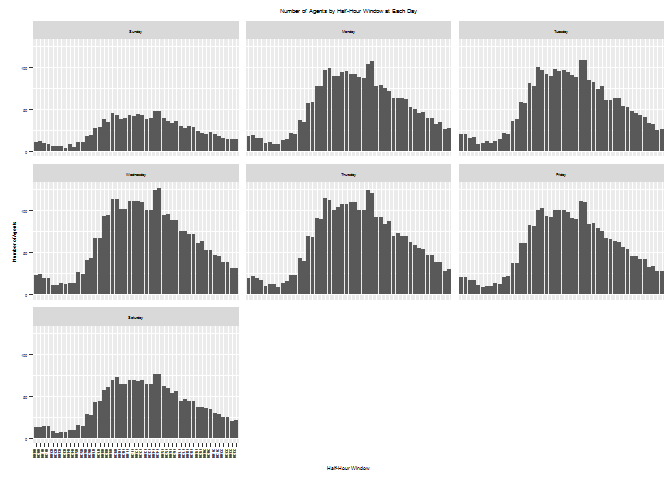
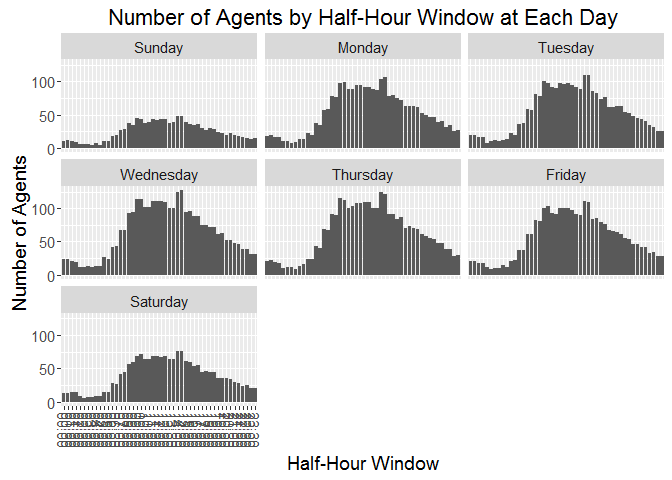
update README and vignette file

diff --git a/inst/doc/scheduler.html b/inst/doc/scheduler.html
@@ -587,9 +587,9 @@ knitr::<span class="kw">kable</span>(agent_requirement)</code></pre></div>
 </table>
 <p>The package associated also a visualization function for viewing the requirement:</p>
 <div class="sourceCode"><pre class="sourceCode r"><code class="sourceCode r"><span class="co">#- visualize the requirement</span>
-scheduler::<span class="kw">schedule_viewer1</span>(<span class="dt">m =</span> agent_requirement, <span class="dt">element_text_size =</span> 4L)</code></pre></div>
+scheduler::<span class="kw">schedule_viewer1</span>(<span class="dt">m =</span> agent_requirement, <span class="dt">element_text_size =</span> 6L)</code></pre></div>
 <div class="figure" style="text-align: center">
[2 lines of base64/hex data omitted]
 <p class="caption">
 scheduler - visulation
 </p>
@@ -610,7 +610,9 @@ scheduler - visulation
 <p>There is another argument <code>allow.half.hour.start</code> that can be used to specify whether allowing none whole hour start time. By default, <code>allow.half.hour.start</code> is <code>TRUE</code>, so start at 7:00AM and start at 7:30AM are two schedule. If <code>allow.half.hour.start</code> is set to <code>FALSE</code>, then no agent will start at 00:30AM, 01:30AM, …, 23:30AM on any day. This is a short cut for sepecifying all corresponding contraints with <code>cr</code>.</p>
 <p>Suppose we want a schedule that can use all 3 schedule modules with default constraints that no one start between 01:00AM - 05:30AM on any day.</p>
 <div class="sourceCode"><pre class="sourceCode r"><code class="sourceCode r"><span class="co">#- suppose we want a schedule with default setting</span>
-(ss_list_01 &lt;-<span class="st"> </span><span class="kw">scheduler</span>(<span class="dt">ar =</span> agent_requirement, <span class="dt">sm =</span> <span class="kw">c</span>(1L, 2L, 3L)))</code></pre></div>
+(ss_list_01 &lt;-<span class="st"> </span><span class="kw">scheduler</span>(
+  <span class="dt">ar =</span> agent_requirement, <span class="dt">sm =</span> <span class="kw">c</span>(1L, 2L, 3L), <span class="dt">timeout =</span> 10L
+))</code></pre></div>
 <pre><code>## $s1
 ##       Sunday Monday Tuesday Wednesday Thursday Friday Saturday
 ## 00:00      0      8       2         1        1      0        2
@@ -825,9 +827,15 @@ scheduler - visulation
 scheduler::<span class="kw">schedule_viewer2</span>(
   <span class="dt">m1 =</span> agent_requirement, <span class="dt">m2 =</span> ss_list_01[[<span class="st">&quot;ss&quot;</span>]], 
   <span class="dt">m1_label =</span> <span class="st">&quot;Agent Required&quot;</span>, <span class="dt">m2_label =</span> <span class="st">&quot;Agent Available&quot;</span>,
-  <span class="dt">element_text_size =</span> 4L
+  <span class="dt">legend_position =</span> <span class="st">&quot;bottom&quot;</span>,
+  <span class="dt">element_text_size =</span> 6L
 )</code></pre></div>
[1 lines of base64/hex data omitted]
+<div class="figure" style="text-align: center">
[1 lines of base64/hex data omitted]
+<p class="caption">
+scheduler - visulation
+</p>
+</div>
 <div class="sourceCode"><pre class="sourceCode r"><code class="sourceCode r">## view of agent start time distribution on 3 schedule module side by side
 scheduler::<span class="kw">schedule_viewer3</span>(
   <span class="dt">m1 =</span> ss_list_01[[<span class="st">&quot;s1&quot;</span>]], 
@@ -836,9 +844,15 @@ scheduler::<span class="kw">schedule_viewer3</span>(
   <span class="dt">m1_label =</span> <span class="st">&quot;Schedule Module 1&quot;</span>,
   <span class="dt">m2_label =</span> <span class="st">&quot;Schedule Module 2&quot;</span>,
   <span class="dt">m3_label =</span> <span class="st">&quot;Schedule Module 3&quot;</span>,
-  <span class="dt">element_text_size =</span> 4L
+  <span class="dt">legend_position =</span> <span class="st">&quot;bottom&quot;</span>,
+  <span class="dt">element_text_size =</span> 6L
 )</code></pre></div>
[1 lines of base64/hex data omitted]
+<div class="figure" style="text-align: center">
[1 lines of base64/hex data omitted]
+<p class="caption">
+scheduler - visulation
+</p>
+</div>
 <p>The output from <code>scheduler</code> is a list of 4 matrix <code>s1</code>, <code>s2</code>, <code>s3</code>, <code>ss</code> and a solved lp model <code>scheduleOptModel</code>.</p>
 <p>The matricies <code>s1</code>, <code>s2</code> and <code>s3</code> each is a 48 x 7 matrix of number of agents required to start at each half hour window each day. The matrix <code>s1</code>, <code>s2</code>, and <code>s3</code> are a coresponding to schedule module 1, schedule module 2, and schedule module 3, respectively. For example, <code>s1[14, 2] = 3</code> implies we need 3 agents to start at 6:30AM Monday with schedule module 1. Note that even when you specify <code>sm = c(2L, 3L)</code> when calling <code>scheduler</code>, it will still return all 3 matricies <code>s1</code>, <code>s2</code>, <code>s3</code>, only that <code>s1</code> would contains all zeros.</p>
 <p>The matrix <code>ss</code> is a 48 x 7 matrix, and is a summarize of s1, s2 and s3 to show the number of agents <strong>available (not start)</strong> at each half hour window. A quality solution should have <code>all(ss &gt; ar)</code> and <code>ss - ar ~ 0</code> in all cells.</p>
@@ -847,7 +861,9 @@ scheduler::<span class="kw">schedule_viewer3</span>(
 ## and disable half-hour start, more constraints - less effective.
 ss_list_02 &lt;-<span class="st"> </span><span class="kw">scheduler</span>(
   <span class="dt">ar =</span> agent_requirement, <span class="dt">sm =</span> <span class="kw">c</span>(2L, 3L),
-  <span class="dt">allow.half.hour.start =</span> <span class="ot">FALSE</span>)
+  <span class="dt">allow.half.hour.start =</span> <span class="ot">FALSE</span>,
+  <span class="dt">timeout =</span> 10L
+)
 
 ## compare the num of total agent required by solution ss_list_02
 ## with solution ss_list_01

diff --git a/README.md b/README.md
@@ -76,7 +76,7 @@ The package associated also a visualization function for viewing the requirement
 
 ``` r
 #- visualize the requirement
-scheduler::schedule_viewer1(m = agent_requirement, element_text_size = 4L)
+scheduler::schedule_viewer1(m = agent_requirement, element_text_size = 14L)
 ```
 
 <img src="fig/unnamed-chunk-3-1.png" alt="scheduler - visulation" width="100%" />
@@ -112,7 +112,9 @@ Suppose we want a schedule that can use all 3 schedule modules with default cons
 
 ``` r
 #- suppose we want a schedule with default setting
-(ss_list_01 <- scheduler(ar = agent_requirement, sm = c(1L, 2L, 3L)))
+(ss_list_01 <- scheduler(
+  ar = agent_requirement, sm = c(1L, 2L, 3L), timeout = 10L
+))
 #> $s1
 #>       Sunday Monday Tuesday Wednesday Thursday Friday Saturday
 #> 00:00      0      8       2         1        1      0        2
@@ -331,7 +333,7 @@ with(ss_list_01, sum(s1 + s2 + s3))
 scheduler::schedule_viewer2(
   m1 = agent_requirement, m2 = ss_list_01[["ss"]], 
   m1_label = "Agent Required", m2_label = "Agent Available",
-  element_text_size = 4L
+  element_text_size = 14L
 )
 ```
 
@@ -349,7 +351,7 @@ scheduler::schedule_viewer3(
   m1_label = "Schedule Module 1",
   m2_label = "Schedule Module 2",
   m3_label = "Schedule Module 3",
-  element_text_size = 4L
+  element_text_size = 14L
 )
 ```
 
@@ -371,7 +373,9 @@ What if we want a schedule that can use schedule module 2L and 3L only, and does
 ## and disable half-hour start, more constraints - less effective.
 ss_list_02 <- scheduler(
   ar = agent_requirement, sm = c(2L, 3L),
-  allow.half.hour.start = FALSE)
+  allow.half.hour.start = FALSE,
+  timeout = 10L
+)
 
 ## compare the num of total agent required by solution ss_list_02
 ## with solution ss_list_01
